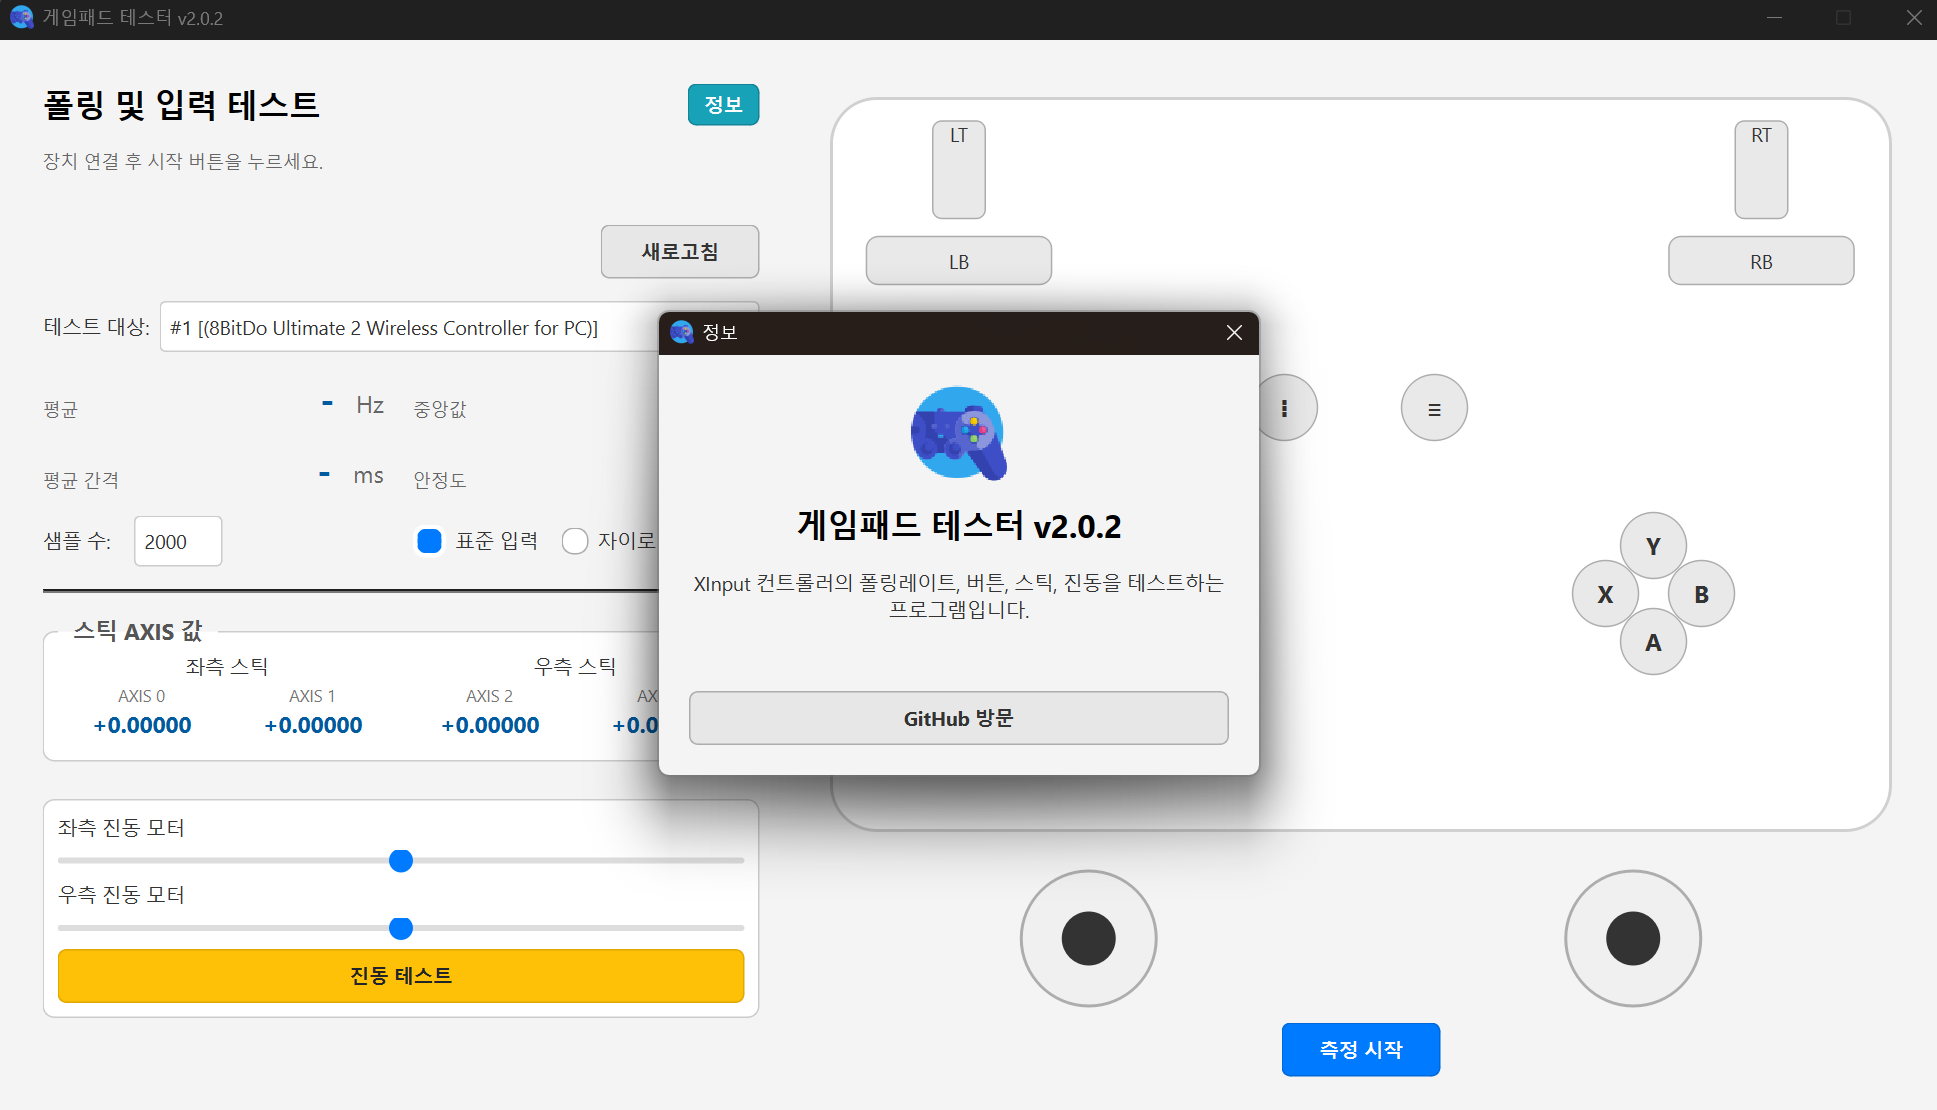
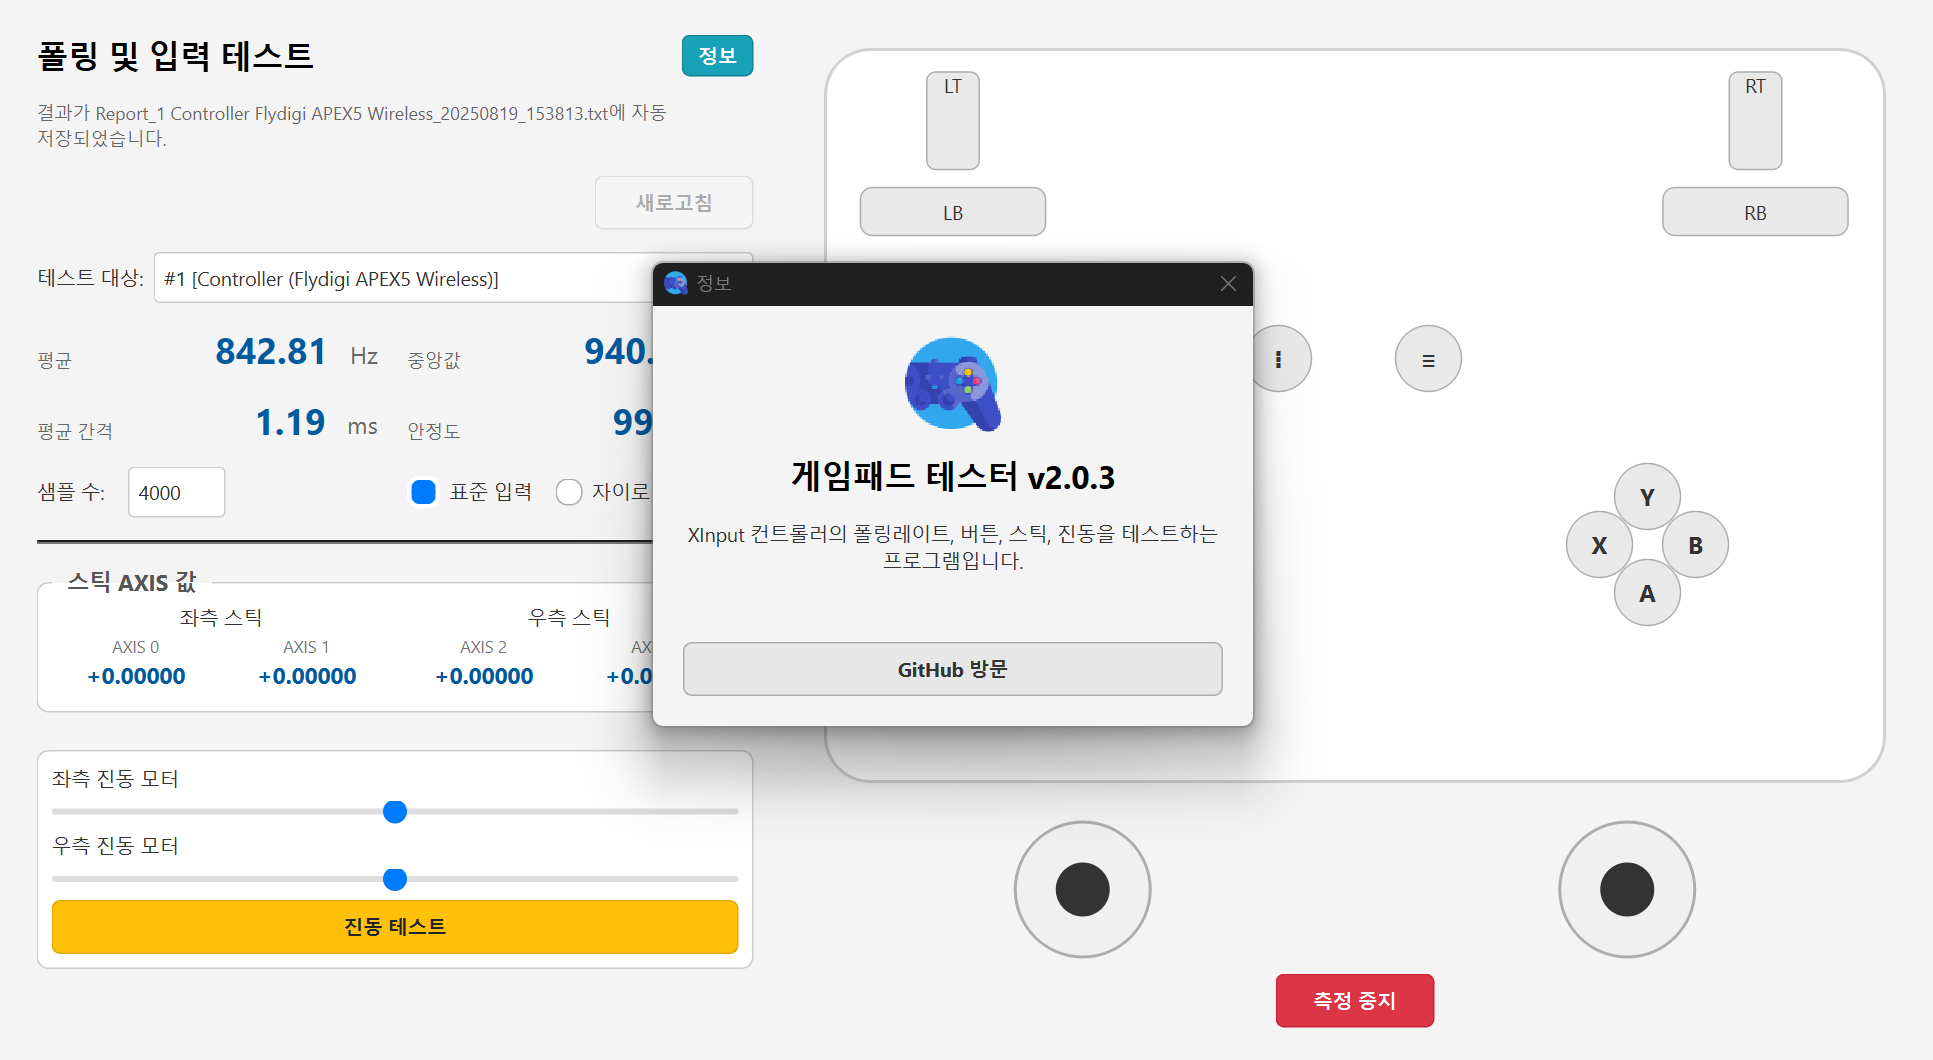
v2.0.3

diff --git a/GamePadTester.py b/GamePadTester.py
@@ -1,4 +1,3 @@
-# -*- coding: utf-8 -*-
 # GamePadTester
 # Version: 2.0.3
 
@@ -532,8 +531,8 @@ class MainWindow(QWidget):
         samples_layout = QHBoxLayout()
         samples_layout.addWidget(QLabel("샘플 수:"))
         self.cmb_samples = QComboBox()
-        self.cmb_samples.addItems(["1000", "2000", "4000"])
-        self.cmb_samples.setCurrentText("2000")
+        self.cmb_samples.addItems(["1000", "2000", "4000", "8000", "16000"])
+        self.cmb_samples.setCurrentText("4000")
         samples_layout.addWidget(self.cmb_samples)
         samples_layout.addStretch(1)
         
